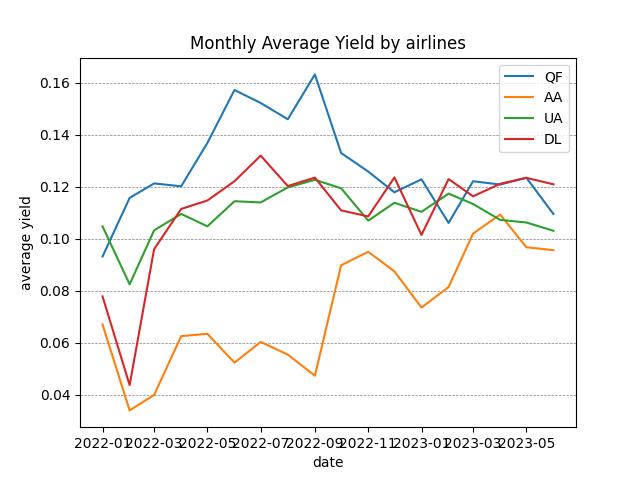
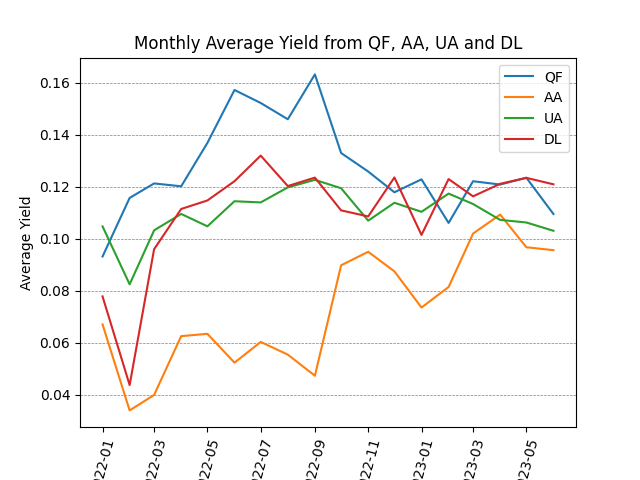
new plot

diff --git a/trytry.py b/trytry.py
@@ -4,6 +4,8 @@ from sqlalchemy import create_engine, text
 from sqlalchemy import MetaData
 import matplotlib.pyplot as plt
 from matplotlib import ticker
+import numpy as np
+
 
 # # Define your PostgreSQL database connection
 db_uri = 'postgresql://student003:chihrusvfnihdipp@dataviation-database-1.chl8zbfpbhhh.ap-southeast-2.rds.amazonaws.com/dataviation_tutorial'
@@ -25,14 +27,14 @@ print(am_df3)
 dfs = [am_df, am_df1, am_df2, am_df3]
 dfs = [df.set_index('month') for df in dfs]
 result=dfs[0].join(dfs[1:])
-
 print(result)
 
 plt.plot(result)
 plt. legend(['QF','AA','UA','DL'])
-plt. title('Monthly Total PAX by airlines')
-plt.xlabel('date')
-plt. ylabel('total pax')
+plt. title('Monthly Total PAX from QF, AA, UA and DL')
+plt.xlabel('Date')
+plt.xticks(rotation = 75)
+plt. ylabel('Total PAX')
 plt. grid(axis= 'y', color= 'grey', linestyle = '--', linewidth = 0.5)
 plt.savefig('sum_paxAL.png')
 plt.show()
@@ -57,9 +59,10 @@ print(answer)
 
 plt.plot(answer)
 plt. legend(['QF','AA','UA','DL'])
-plt. title('Monthly Average Yield by airlines')
-plt.xlabel('date')
-plt. ylabel('average yield')
+plt. title('Monthly Average Yield from QF, AA, UA and DL')
+plt.xlabel('Date')
+plt.xticks(rotation = 75)
+plt. ylabel('Average Yield')
 plt. grid(axis= 'y', color= 'grey', linestyle = '--', linewidth = 0.5)
 plt.savefig('avg_yieldAL.png')
 plt.show()
@@ -83,10 +86,10 @@ print(final)
 
 plt.plot(final)
 plt. legend(['QF','AA','UA','DL'])
-plt. title('Monthly Total Seats by airlines')
-plt.xlabel('date')
-plt. ylabel('total seats')
+plt. title('Monthly Total Seats from QF, AA, UA and DL')
+plt.xlabel('Date')
+plt.xticks(rotation = 75)
+plt. ylabel('Total Seats')
 plt. grid(axis= 'y', color= 'grey', linestyle = '--', linewidth = 0.5)
 plt.savefig('sum_seatsAL.png')
-plt.ticklabel_format(style = 'Plain', axis = 'y')
 plt.show()
